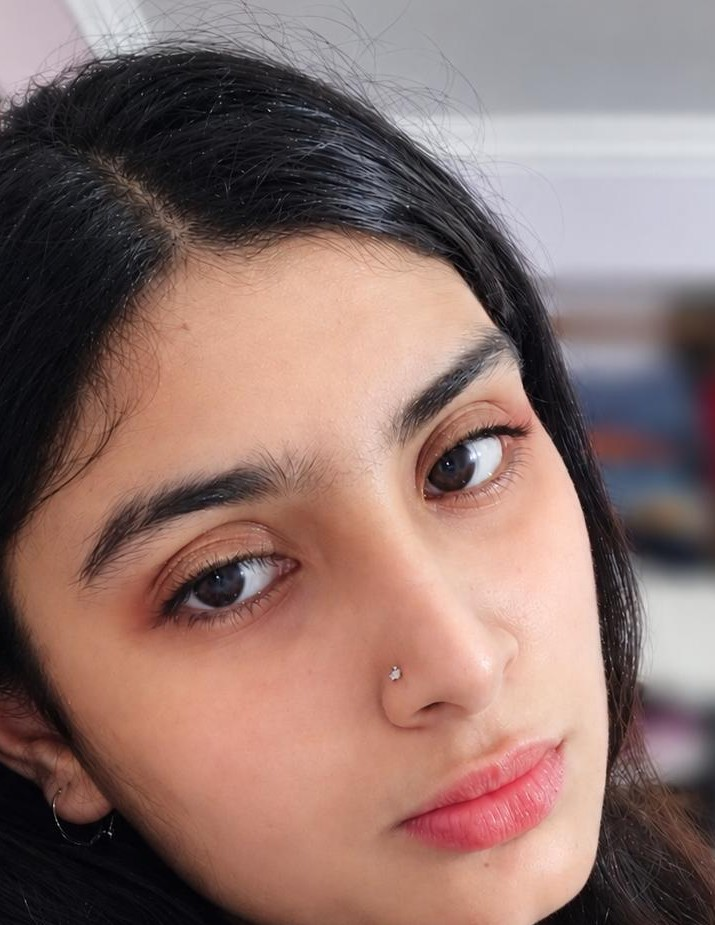
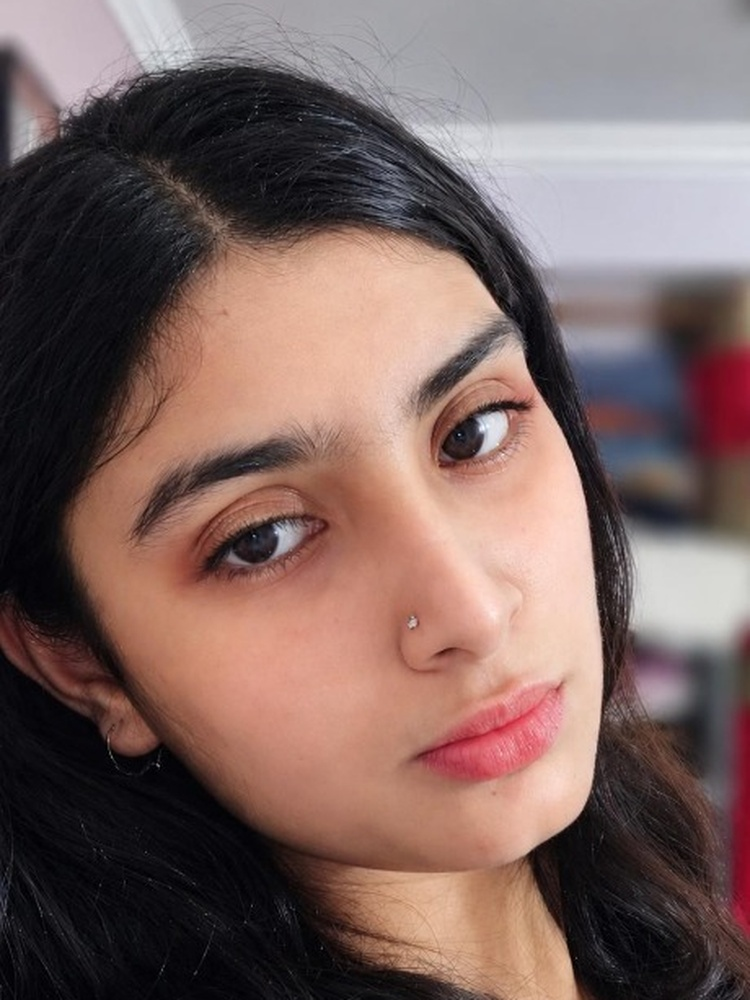
feat: enhance face focus on card photo 1 and zoom out card photo 4

diff --git a/components/universe/AyaExperience.tsx b/components/universe/AyaExperience.tsx
@@ -44,7 +44,7 @@ const BOOK_PHYSICAL_PAGES: PhysicalPageData[] = [
   },
   {
     id: 2,
-    frontImage: "/assets/akriti/photo-04.jpg", // Inside Right Page 2
+    frontImage: "/assets/akriti/card-photo-04.jpg", // Inside Right Page 2 (Portrait in Striped Top - Zoomed Out)
     frontAlt: "Akriti - Beautiful Smile",
     backImage: "/assets/aya/theend.jpg", // Cute back cover (hands holding heart) from the video
     backAlt: "Forever and Always ❤",
